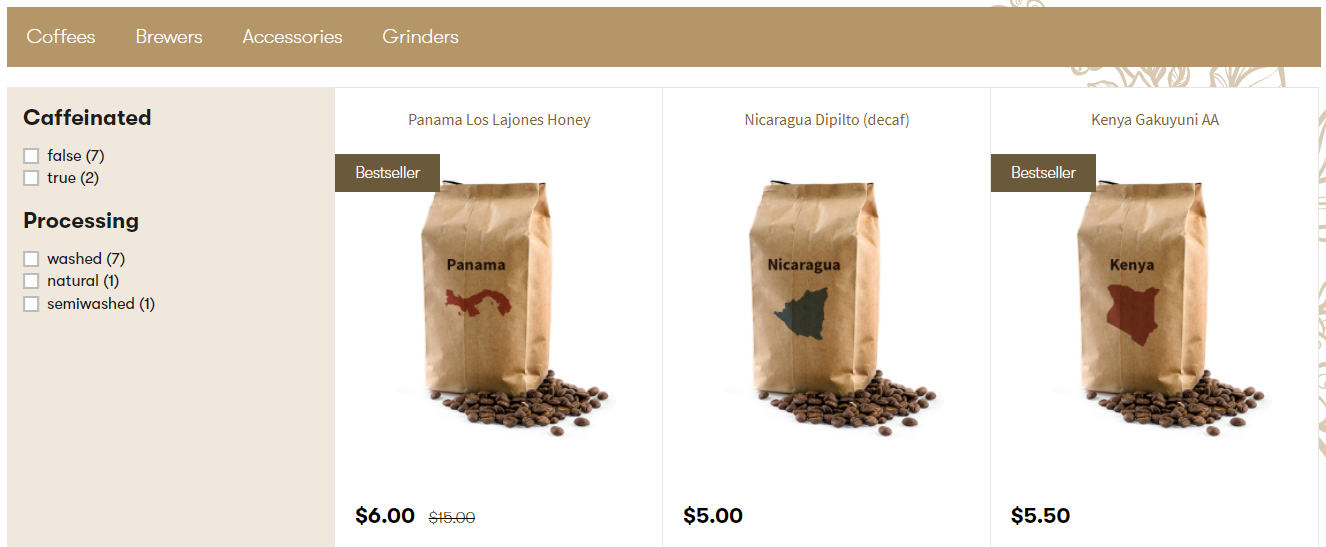
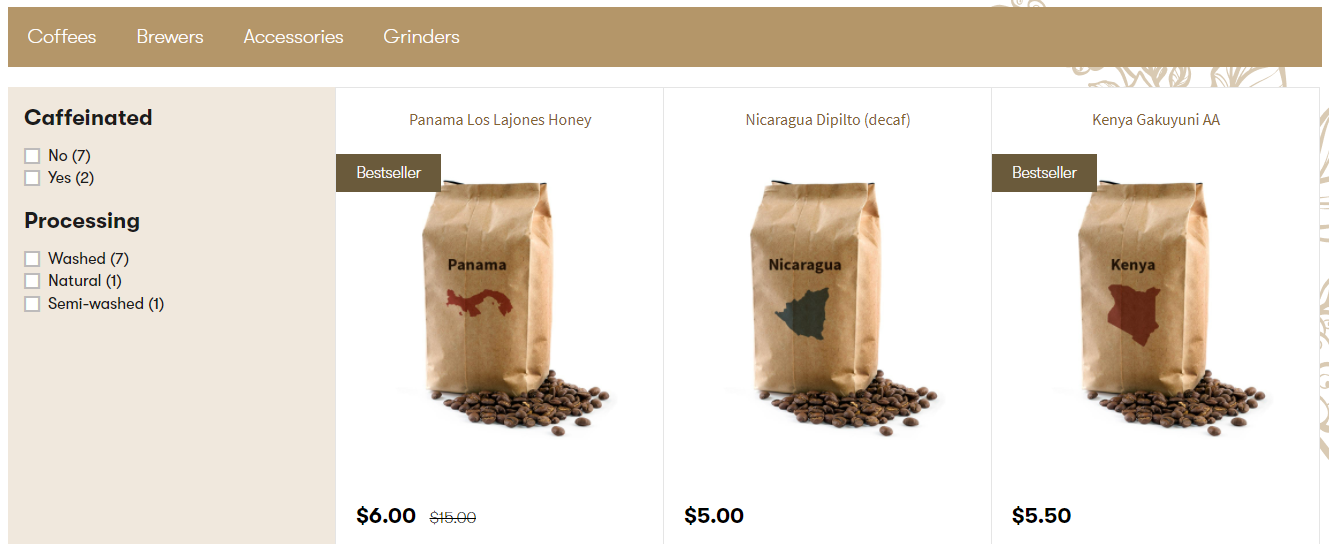
add localization for facet values

diff --git a/src/Models/Facets/AlgoliaFacet.cs b/src/Models/Facets/AlgoliaFacet.cs
@@ -8,25 +8,46 @@
         /// <summary>
         /// The name of the faceted attribute.
         /// </summary>
-        public string Attribute { get; set; }
+        public string Attribute {
+            get;
+            set;
+        }
 
         
         /// <summary>
         /// The value of the facet.
         /// </summary>
-        public string Value { get; set; }
+        public string Value {
+            get;
+            set;
+        }
+
+
+        /// <summary>
+        /// The display name of the facet's value.
+        /// </summary>
+        public string DisplayValue {
+            get;
+            set;
+        }
 
 
         /// <summary>
         /// The number of hits that will be returned when this facet
         /// is used within an Algolia search.
         /// </summary>
-        public long Count { get; set; }
+        public long Count {
+            get;
+            set;
+        }
 
 
         /// <summary>
         /// True if the facet was used in a previous Algolia search.
         /// </summary>
-        public bool IsChecked { get; set; }
+        public bool IsChecked {
+            get;
+            set;
+        }
     }
 }

diff --git a/src/Models/Facets/IAlgoliaFacetFilter.cs b/src/Models/Facets/IAlgoliaFacetFilter.cs
@@ -28,7 +28,9 @@ namespace Kentico.Xperience.AlgoliaSearch.Models.Facets
         /// <summary>
         /// Sets the <see cref="AlgoliaFacetedAttribute.DisplayName"/> of each facet within
         /// <see cref="FacetedAttributes"/>. The key searched within the given <see cref="IStringLocalizer"/>
-        /// is in the format <i>algolia.facet.[AttributeName]</i>.
+        /// is in the format <i>algolia.facet.[AttributeName]</i>. Also sets the <see cref="AlgoliaFacet.DisplayValue"/>
+        /// of each facet within the attribute, using a key in the format
+        /// <i>algolia.facet.[AttributeName].[FacetValue]</i>.
         /// </summary>
         /// <param name="localizer">The localizer containing facet display names. See
         /// <see href="https://docs.xperience.io/multilingual-websites/setting-up-a-multilingual-user-interface/localizing-builder-components"/>.</param>

diff --git a/src/Models/Facets/AlgoliaFacetedAttribute.cs b/src/Models/Facets/AlgoliaFacetedAttribute.cs
@@ -8,18 +8,27 @@
         /// <summary>
         /// The name of the faceted attribute.
         /// </summary>
-        public string Attribute { get; set; }
+        public string Attribute {
+            get;
+            set;
+        }
 
 
         /// <summary>
         /// The display name of the faceted attribute.
         /// </summary>
-        public string DisplayName { get; set; }
+        public string DisplayName {
+            get;
+            set;
+        }
 
 
         /// <summary>
         /// Available facets of the faceted attibute.
         /// </summary>
-        public AlgoliaFacet[] Facets { get; set; }
+        public AlgoliaFacet[] Facets {
+            get;
+            set;
+        }
     }
 }

diff --git a/src/Models/Facets/AlgoliaFacetFilterViewModel.cs b/src/Models/Facets/AlgoliaFacetFilterViewModel.cs
@@ -51,6 +51,10 @@ namespace Kentico.Xperience.AlgoliaSearch.Models.Facets
             foreach (var facetedAttribute in FacetedAttributes)
             {
                 facetedAttribute.DisplayName = localizer.GetString($"algolia.facet.{facetedAttribute.Attribute}");
+                foreach (var facet in facetedAttribute.Facets)
+                {
+                    facet.DisplayValue = localizer.GetString($"algolia.facet.{facet.Attribute}.{facet.Value}");
+                }
             }
         }
     }

diff --git a/src/Helpers/AlgoliaSearchHelper.cs b/src/Helpers/AlgoliaSearchHelper.cs
@@ -194,6 +194,7 @@ namespace Kentico.Xperience.AlgoliaSearch.Helpers
                         {
                             Attribute = dict.Key,
                             Value = facet.Key,
+                            DisplayValue = facet.Key,
                             Count = facet.Value,
                             IsChecked = checkedFacetValues.Contains(facet.Key)
                         }

diff --git a/README.md b/README.md
@@ -611,13 +611,6 @@ public ActionResult Index(AlgoliaFacetFilterViewModel filter)
 
 Here, the `GetFacetedAttributes()` method accepts the facets returned from Algolia, but also the current `IAlgoliaFacetFilter`. Because the entire list of available facets depends on the Algolia response, and the facets in your filter are replaced with new ones, this method ensures that a facet that was used previously (e.g. "CoffeeIsDecaf:true") maintains it's enabled state when reloading the search interface.
 
-4. (Optional) Without localization, your view will display your facet attribute names (e.g. "CoffeeIsDecaf") instead of a human-readable header like "Caffeinated." You can use any localization approach you'd like, but the `IAlgoliaFacetFilter` contains a `Localize()` method that you can use out-of-the-box.
-
-    - Inject `IStringLocalizer<SharedResources>` into the controller.
-    - Call `filterViewModel.Localize(_localizer)` in the `Index()` method after constructing the facet filter view model.
-    - The `Localize()` method searches for matching facets in the format _algolia.facet.[AttributeName]_. In __SharedResources.resx__, add the keys "algolia.facet.CoffeeIsDecaf" and "algolia.facet.CoffeeProcessing" with your translations.
-    - The `DisplayName` of each `AlgoliaFacetedAttribute` in the filter is now localized.
-
 ### Displaying the facets
 
 If you've been following each section of this guide, the Dancing Goat store listing now uses Algolia search, and we have a filter which contains our Algolia facets and properly filters the search results. The final step is to display the facets in the store listing and handle user interaction with the facets.
@@ -669,7 +662,7 @@ If you've been following each section of this guide, the Dancing Goat store list
     @Html.HiddenFor(m => Model.Facets[i].Attribute)
     <span class="checkbox js-postback">
         <input asp-for="@Model.Facets[i].IsChecked" />
-        <label asp-for="@Model.Facets[i].IsChecked">@Model.Facets[i].Value (@Model.Facets[i].Count)</label>
+        <label asp-for="@Model.Facets[i].IsChecked">@Model.Facets[i].DisplayValue (@Model.Facets[i].Count)</label>
     </span>
 }
 ```
@@ -677,6 +670,30 @@ If you've been following each section of this guide, the Dancing Goat store list
 We're done! Now, when you check one of the facets our javascript will cause the form to post back to the `Index()` action. The `filter` parameter will contain the facets that were displayed on the page, with the `IsChecked` property of each facet set accordingly. The filter is passed to our `Search()` method which uses `GetFilter()` to filter the search results, and a new `AlgoliaFacetFilterViewModel` is created with the results of the query.
 
 ![Dancing goat facet example](/img/dg-facets.png)
+
+### Localizing facet names and values
+
+Without localization, your view will display your facet attribute names (e.g. "CoffeeIsDecaf") instead of a human-readable header like "Caffeinated," and values like "true" and "false." You can use any localization approach you'd like, but the `IAlgoliaFacetFilter` contains a `Localize()` method that you can use out-of-the-box.
+
+1. Inject `IStringLocalizer<SharedResources>` into the __CoffeeController__.
+2. Call `filterViewModel.Localize()` in the `Index()` method after constructing the facet filter view model.
+
+```cs
+public ActionResult Index(AlgoliaFacetFilterViewModel filter)
+{
+    ...
+    var facetedAttributes = AlgoliaSearchHelper.GetFacetedAttributes(searchResponse.Facets, filter);
+    var filterViewModel = new AlgoliaFacetFilterViewModel(facetedAttributes);
+    filterViewModel.Localize(_localizer);
+    ...
+}
+```
+
+3. The `Localize()` method searches for facet names with keys in the format _algolia.facet.[AttributeName]_, and facet values in the format _algolia.facet.[AttributeName].[FacetValue]_. In __SharedResources.resx__, add the following keys and your translations:
+
+![Resource strings](/img/resource-strings.png)
+
+4. Each `AlgoliaFacetedAttribute.DisplayName` and `AlgoliaFacet.DisplayValue` within the filter is now localized.
 
 ## :bulb: Personalizing search results
 
